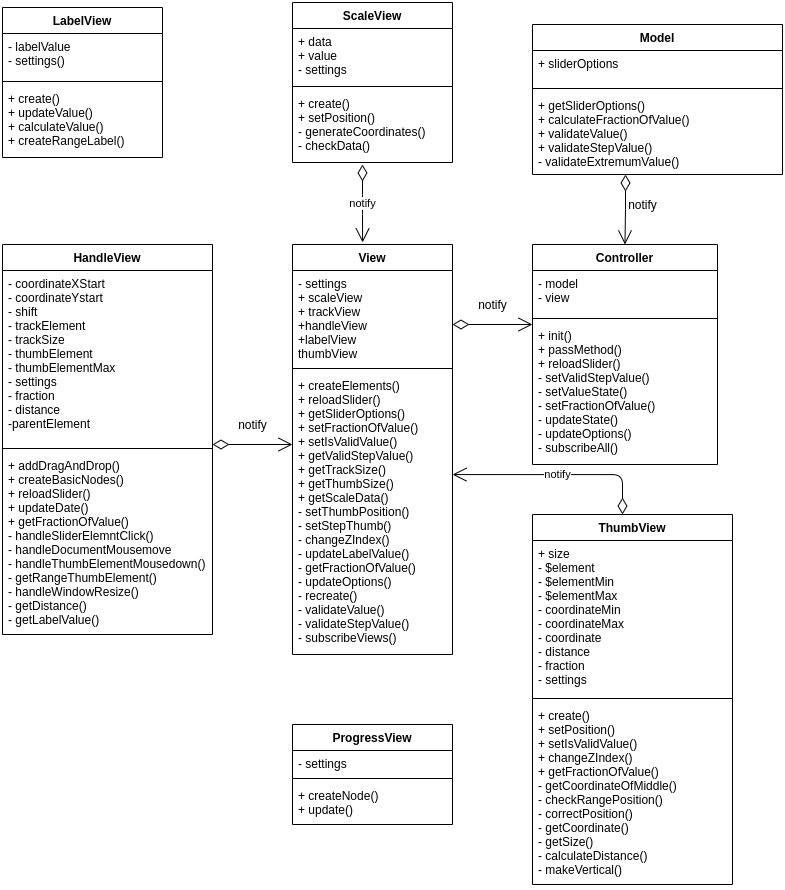
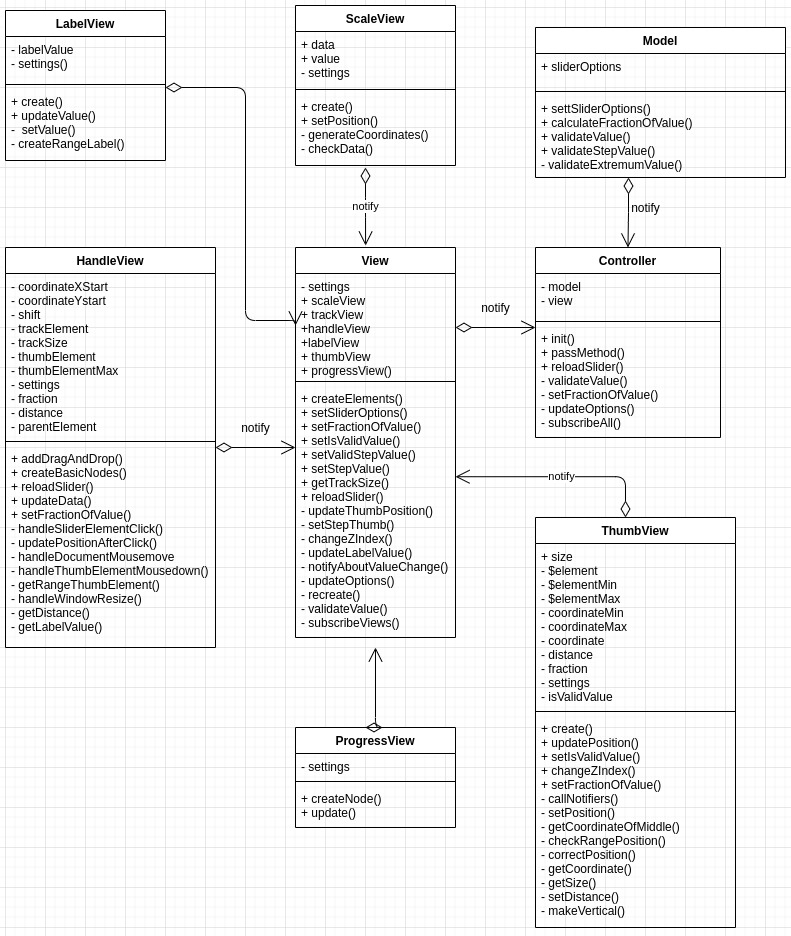
update uml, fix methods naming

diff --git a/src/slider/views/View/View.ts b/src/slider/views/View/View.ts
@@ -81,8 +81,8 @@ class View extends Observable {
   }
 
   public setFractionOfValue(fraction: number): void {
-    this.thumbView.getFractionOfValue(fraction);
-    this.handleView.getFractionOfValue(fraction);
+    this.thumbView.setFractionOfValue(fraction);
+    this.handleView.setFractionOfValue(fraction);
   }
 
   public setIsValidValue(isValid: boolean): void {
@@ -120,7 +120,7 @@ class View extends Observable {
     }
   }
 
-  private getFractionOfValue(value: number): void {
+  private notifyAboutValueChange(value: number): void {
     this.notifyAll({ value, type: 'setFractionOfValue' });
   }
 
@@ -142,10 +142,10 @@ class View extends Observable {
     this.handleView.subscribe({ method: this.updateThumbPosition, type: 'updateThumbPosition' });
     this.handleView.subscribe({ method: this.changeZIndex, type: 'changeZIndex' });
     this.handleView.subscribe({ method: this.updateLabelValue, type: 'updateLabelValue' });
-    this.handleView.subscribe({ method: this.getFractionOfValue, type: 'getFractionOfValue' });
+    this.handleView.subscribe({ method: this.notifyAboutValueChange, type: 'notifyAboutValueChange' });
     this.handleView.subscribe({ method: this.updateOptions, type: 'updateOptions' });
     this.handleView.subscribe({ method: this.recreate, type: 'recreate' });
-    this.thumbView.subscribe({ method: this.getFractionOfValue, type: 'getFractionOfValue' });
+    this.thumbView.subscribe({ method: this.notifyAboutValueChange, type: 'notifyAboutValueChange' });
     this.thumbView.subscribe({ method: this.setStepThumb, type: 'setStepThumb' });
     this.thumbView.subscribe({ method: this.validateValue, type: 'validateValue' });
   }

diff --git a/src/slider/views/ThumbView/ThumbView.ts b/src/slider/views/ThumbView/ThumbView.ts
@@ -44,7 +44,7 @@ class ThumbView extends Observable {
   constructor(settings: SliderElementOptions) {
     super();
     this.settings = settings;
-    this.getSize();
+    this.setSize();
   }
 
   public create(trackSize: number): void {
@@ -88,7 +88,7 @@ class ThumbView extends Observable {
     } = this.settings;
 
     if ((coordinateStart || coordinateStart === 0) && coordinateMove) {
-      this.calculateDistance({ coordinateStart, coordinateMove });
+      this.setDistance({ coordinateStart, coordinateMove });
     }
     const distance = (coordinateStart || coordinateStart === 0) ? this.distance + shift : shift;
 
@@ -131,7 +131,7 @@ class ThumbView extends Observable {
     }
   }
 
-  public getFractionOfValue(fraction: number): void {
+  public setFractionOfValue(fraction: number): void {
     this.fraction = fraction;
   }
 
@@ -216,16 +216,16 @@ class ThumbView extends Observable {
   private getCoordinate(options: ThumbCoordinateOptions): number {
     const { value, trackSize } = options;
 
-    this.notifyAll({ value, type: 'getFractionOfValue' });
+    this.notifyAll({ value, type: 'notifyAboutValueChange' });
     return this.fraction * trackSize;
   }
 
-  private getSize(): void {
+  private setSize(): void {
     const $thumb = this.settings.$element.find('.slider__thumb');
     this.size = $thumb.width() || 0;
   }
 
-  private calculateDistance(options: DistanceOptions): void {
+  private setDistance(options: DistanceOptions): void {
     const { coordinateStart, coordinateMove } = options;
     this.distance = coordinateMove - coordinateStart;
   }

diff --git a/src/slider/views/HandleView/HandleView.ts b/src/slider/views/HandleView/HandleView.ts
@@ -149,7 +149,7 @@ class HandleView extends Observable {
     }
   }
 
-  public getFractionOfValue(fraction: number): void {
+  public setFractionOfValue(fraction: number): void {
     this.fraction = fraction;
   }
 
@@ -169,7 +169,7 @@ class HandleView extends Observable {
 
       if (isItemElement) {
         const value = Number(target.textContent);
-        this.notifyAll({ value, type: 'getFractionOfValue' });
+        this.notifyAll({ value, type: 'notifyAboutValueChange' });
         this.distance = this.fraction * trackSize;
       } else {
         this.distance = HandleView.getDistance({
